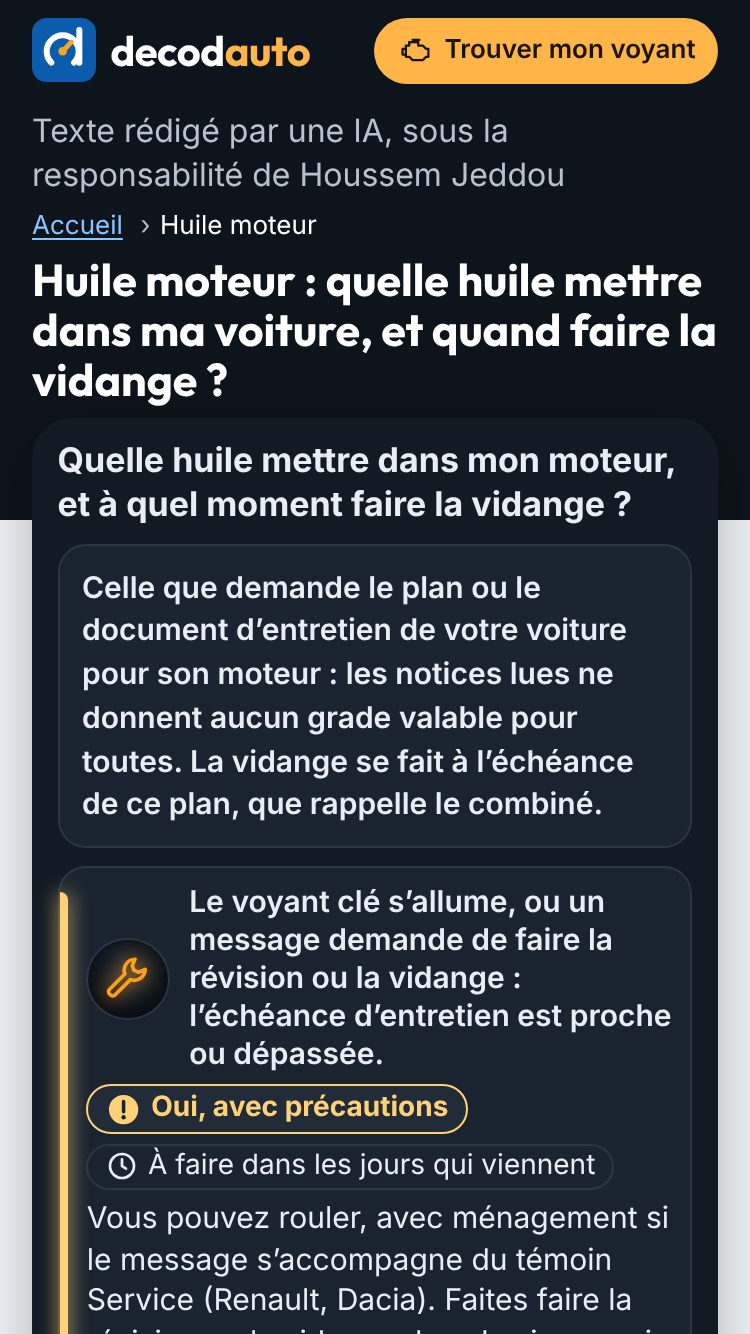
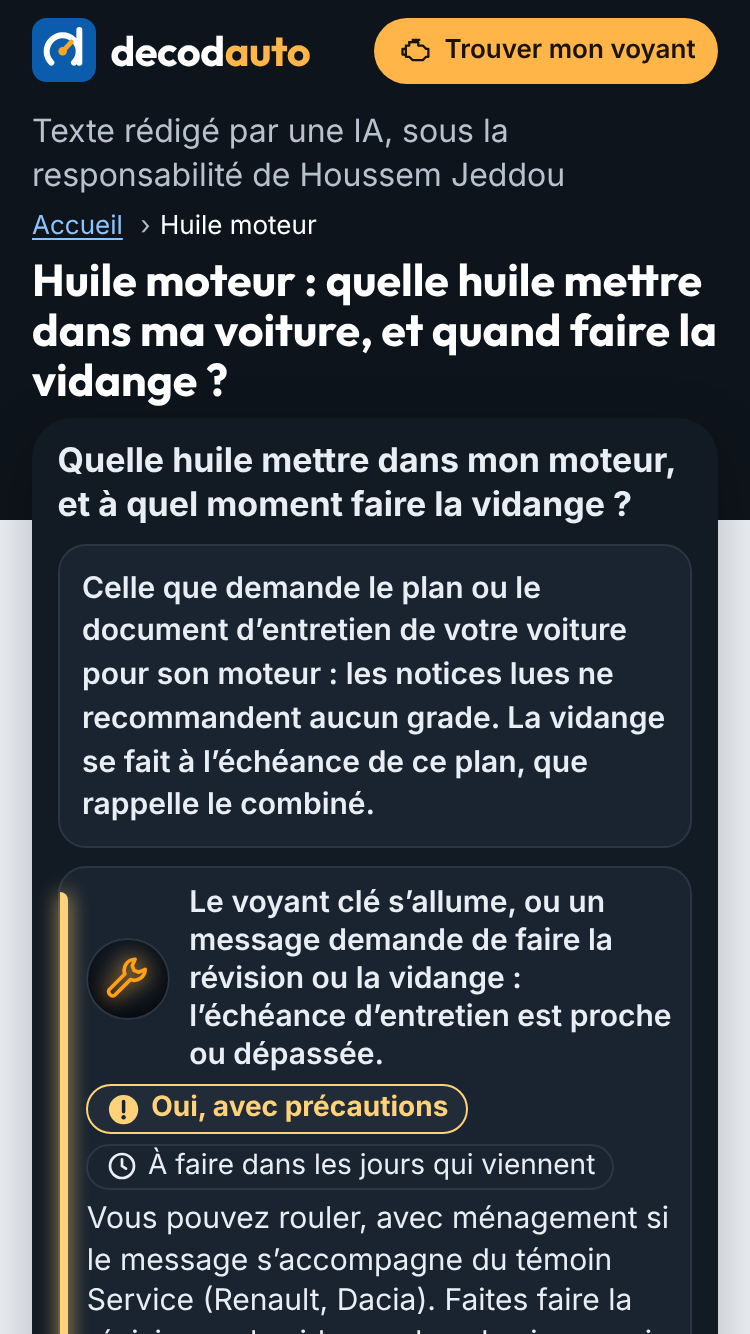
Lot C2 (étape 11) : réponse directe de « huile moteur » (« ne recommandent aucun grade », M1), heure du relevé corrigée (vers 11 h 50), premier écran remesuré à 375 et 320 px (brouillon, jamais validé)
Claude-Session: https://claude.ai/code/session_01D9NChPBVJTio8astCmYhoa

Changed region(s): [[0.092, 0.5225, 0.8893, 0.6147]]

diff --git a/travaux/etape-11/generer-illustrations.py b/travaux/etape-11/generer-illustrations.py
@@ -11,7 +11,7 @@ traits clairs, ambre pour « regardez ici »). Brouillon, jamais validé.
   l'huile du moteur ; à droite, l'étiquette d'un bidon sans marque, où l'on retrouve la norme demandée (en ambre), la
   classe ACEA et le grade. Le dessin n'explique pas le grade (aucune source admise lue) et ne montre aucune marque
   d'huile. Notices : Peugeot 208 p. 166, Citroën C3 p. 113, Renault Clio 5 phase 2 p. 333, Dacia Sandero 3 p. 296,
-  Seat Ibiza p. 293 (relues à l'écran le 17/11/2026, vers 12 h 15).
+  Seat Ibiza p. 293 (relues à l'écran le 17/11/2026, vers 11 h 50).
 
 Contraintes de `illustrationEnLigne` : un seul <svg> racine avec viewBox ; ni script, ni foreignObject, ni image, ni
 use, ni lien, ni attribut on*, ni href, ni url(), ni @import ; textes de 24 unités au moins (12 px à 375 px).

diff --git a/travaux/etape-11/lot-c2/paquet-lot-c2.md b/travaux/etape-11/lot-c2/paquet-lot-c2.md
@@ -17,9 +17,9 @@ Page : `exemples/fluide/huile-moteur.md`, adresse `/huile-moteur/` (plan du site
   grade choisi seul ; la vidange, à son échéance. Erreur d'huile : ce que dit Seat. »
 - **Question de l'encadré** (distincte du H1, M4) : « Quelle huile mettre dans mon moteur, et à quel moment faire la
   vidange ? »
-- **Réponse directe** (règle 2c, demande n° 33) : « Celle que demande le plan ou le document d'entretien de votre
-  voiture pour son moteur : les notices lues ne donnent aucun grade valable pour toutes. La vidange se fait à l'échéance
-  de ce plan, que rappelle le combiné. » Sources : Peugeot 208 p. 166 ; Citroën C3 p. 113 ; Renault Clio 5 phase 2
+- **Réponse directe** (règle 2c, demande n° 33 ; M1 appliqué le 17/11 après la revue, 35 mots) : « Celle que demande le
+  plan ou le document d'entretien de votre voiture pour son moteur : les notices lues ne recommandent aucun grade. La
+  vidange se fait à l'échéance de ce plan, que rappelle le combiné. » Sources : Peugeot 208 p. 166 ; Citroën C3 p. 113 ; Renault Clio 5 phase 2
   p. 333 ; Dacia Sandero 3 p. 296 ; Seat Ibiza p. 293 ; ligne de base `entretien-vidange` (rappel au combiné).
 
 ## 0. Corrections après la revue indépendante (17/11, décisions du pilotage)
@@ -30,7 +30,7 @@ Page : `exemples/fluide/huile-moteur.md`, adresse `/huile-moteur/` (plan du site
 | I2 | Ligne « baisse anormale du niveau » retirée (elle ira sur la page « niveau d'huile » à sa prochaine révision, avec sa validation) ; la section « consommation » tient en une phrase avec un lien vers « niveau d'huile » (paire mère-enfant du plan) ; colonne « Consommation d'huile » retirée du tableau ; `structure-grades.md` renvoie vers cette page pour une autre huile versée, sans répéter la ligne. |
 | I3 | Seat p. 295 et son chiffre au §3 ; vidange et usage repris mot à mot : Renault et Dacia « Suivant véhicule, l'autonomie de vidange s'adapte au style de conduite » ; Seat p. 90 (conditions d'utilisation et style de conduite, 2 ans au plus) ; Seat p. 316 : les conditions difficiles visent « certains travaux », la page dit qu'elle ne nomme pas la vidange. |
 | I4 | §5 : raison de l'illustration au-delà de trois écrans, SEO 66 expliqué, sortie de `npm run liens` dans `recette/`. |
-| M1 à M6 | « ne recommandent aucun grade » ; « une fois » et « sur une Seat Ibiza » avant le tableau d'urgence ; attributions (Peugeot : plan d'entretien ; Citroën : recommandations du constructeur ; Renault et Dacia : représentant pour la capacité de vidange ; déduction « Le grade ne suffit donc pas » retirée) ; question de l'encadré distincte du H1 ; section « Vidange : les mises en garde des notices » (le brief exclut le tutoriel de vidange) ; description qui donne la réponse. |
+| M1 à M6 | « ne recommandent aucun grade », dans la section des grades et, depuis la retouche du 17/11 (le pilotage avait relevé que la réponse directe disait encore « ne donnent aucun grade valable pour toutes »), dans la réponse directe ; « une fois » et « sur une Seat Ibiza » avant le tableau d'urgence ; attributions (Peugeot : plan d'entretien ; Citroën : recommandations du constructeur ; Renault et Dacia : représentant pour la capacité de vidange ; déduction « Le grade ne suffit donc pas » retirée) ; question de l'encadré distincte du H1 ; section « Vidange : les mises en garde des notices » (le brief exclut le tutoriel de vidange) ; description qui donne la réponse. |
 
 ## 1. Les lignes de l'encadré
 
@@ -40,7 +40,7 @@ précautions** · **À faire dans les jours qui viennent**. Ligne `entretien-vid
 sa ligne d'écart de la base : « Plus stricts : Renault et Dacia (révision au plus vite, conduite avec ménagement). Moins
 stricts : Peugeot, Seat et Toyota (rappel d'entretien, sans précaution). »
 
-**L'ATTENTION Seat Ibiza p. 294, puce par puce** (relue à l'écran le 17/11 vers 12 h 15 ; relevé des sources, §11). En
+**L'ATTENTION Seat Ibiza p. 294, puce par puce** (relue à l'écran le 17/11 vers 11 h 50 ; relevé des sources, §11). En
 tête : « Si vous avez rempli une huile moteur différente de celles spécifiées dans les normes indiquées plus haut ou par
 votre service technique de SEAT, tenez compte de ce qui suit : »
 
@@ -92,7 +92,7 @@ elle y entrera à sa prochaine révision, avec sa validation.
 - Aucun montant en euros. Le dépannage sur autoroute s'affiche de lui-même (lignes 3 et 4 à l'arrêt).
 
 ## 3. Extraits et faits : relus à l'écran
-- **Relu à l'écran par Claude** le 17/11/2026 vers 12 h 15 (pdf.js dans Chrome) : Seat Ibiza p. 90, 293, 294, 296, 316 ;
+- **Relu à l'écran par Claude** le 17/11/2026 vers 11 h 50 (pdf.js dans Chrome) : Seat Ibiza p. 90, 293, 294, 296, 316 ;
   Peugeot 208 p. 165 (contact de l'huile usagée avec la peau), 166, 168 ; Citroën C3 p. 112, 113, 114 ; Renault Clio 5
   phase 2 p. 122, 330, 333 ; Dacia Sandero 3 p. 99, 294, 296, 297. Textes mot pour mot : relevé des sources, §11.
 - **Seat Ibiza p. 295** (I3), relue à l'écran le 17/11 vers 10 h 50 et 11 h 10 pour la page « niveau d'huile »
@@ -155,6 +155,13 @@ Preuves : `recette/` (`controle.txt`, `liens-production.txt`, `liens-recette.txt
   **SEO 66** (I4) : seul l'audit « is-crawlable » échoue, parce que la construction de recette est non indexable
   (noindex attendu) ; la construction de production n'a pas ce noindex une fois la page publiée.
 - **Captures** (`captures/`) : 320, 375 et 1366 px, deux polices (captures de secours identiques retirées).
+- **Retouche du 17/11 (réponse directe, M1)** : seuls le premier écran et ses mesures sont refaits, à 375 × 667 et
+  320 × 640, police chargée et police de secours (`captures/premier-ecran.cjs`, `captures/mesures-premier-ecran.json`,
+  `captures/huile-moteur-{320,375}-{chargee,secours}-ecran.png`) : à 375 px, réponse directe finie à 424 px, verdict et
+  urgence de la première situation à 595 px, première situation entière à 723 px (inchangés) ; à 320 px, réponse
+  directe à 467 px, verdict et urgence à 674 px (696 avant), aucun débordement. Les autres captures, les mesures de
+  toute la page et Lighthouse datent d'avant la retouche (seul le texte de la réponse directe change). Contrôle de la
+  construction de recette après la retouche : seule erreur, attendue, R4-VALIDATION-ABSENTE.
 
 ## 6. Points à trancher (avec ma recommandation)
 1. **Ligne 3 nouvelle** (doute sur l'huile versée) au niveau le plus prudent (décision du pilotage).
@@ -165,7 +172,8 @@ Preuves : `recette/` (`controle.txt`, `liens-production.txt`, `liens-recette.txt
 4. **Ligne « baisse anormale » retirée** et reportée sur la page « niveau d'huile ». **Recommandation : valider.**
 
 ## 7. Ligne de validation proposée (page « huile moteur »)
-« Je valide la page « huile moteur » : la question de décision, la réponse directe, les quatre lignes (rappel d'entretien
+« Je valide la page « huile moteur » : la question de décision, la réponse directe (« … les notices lues ne
+recommandent aucun grade… »), les quatre lignes (rappel d'entretien
 de la base à Oui, avec précautions et À faire dans les jours qui viennent ; autre huile versée à Oui, avec précautions et
 À faire tout de suite ; doute sur l'huile versée à Non, arrêtez-vous immédiatement et À faire tout de suite ; autre
 liquide versé à Non, arrêtez-vous immédiatement et À faire tout de suite), le coût, la fiche « L'essentiel », les deux

diff --git a/travaux/etape-11/paquet-exemple-niveau-huile.md b/travaux/etape-11/paquet-exemple-niveau-huile.md
@@ -113,7 +113,7 @@ Les PDF des notices sont refusés par le proxy de ma session. **Relu à l'écran
 | Dacia Sandero 3 | p. 295 (PDF 297) | même phrase de l'entonnoir et du risque d'incendie ; « Il ne faut en aucun cas dépasser le niveau maximum de remplissage B : risque d'endommagement du moteur et du système de dépollution. », juste avant « Si le niveau MAXI est dépassé, ne démarrez pas votre véhicule et faites appel à un Représentant de la marque. » ; appoint moteur thermique froid, contact coupé ; capacité de 1,5 à 2 litres ; « attendez 20 minutes environ » | étapes 9, 11 ; ligne 2 (extrait et risque cité) |
 | Seat Ibiza | p. 295 (PDF 297) | stationner à l'horizontale, moteur au ralenti jusqu'à la température de fonctionnement, contact coupé, environ 2 minutes ; retirer, essuyer avec un chiffon propre, enfoncer jusqu'en butée, retirer, vérifier ; zones A, B, C ; consommation jusqu'à 0,5 l/1 000 km, plus élevée durant les 5 000 premiers km, contrôle de préférence après chaque plein et avant les longs trajets ; extrait de la ligne 2 ; appoint par petites quantités, 0,5 l au plus, environ 2 minutes avant de revérifier | étapes 2, 5 à 7, 10, 11 ; lignes 1 et 2 ; sections « fréquence » et « consommation » |
 | Seat Ibiza | p. 294 | « Par mesure de sécurité, il est recommandé de contrôler le niveau d'huile moteur à l'occasion de chaque passage à la pompe. » suit la ligne « Il clignote en jaune : dysfonctionnement du capteur » | remise dans son contexte (capteur défaillant), section du voyant orange |
-| Toyota Yaris | p. 247 | **non lue** : portail inaccessible ; réessayée le 17/11 vers 12 h 15, PDF hébergé sur s3.amazonaws.com refusé par le navigateur | la page garde « Non lu » (tableau) |
+| Toyota Yaris | p. 247 | **non lue** : portail inaccessible ; réessayée le 17/11 vers 11 h 50, PDF hébergé sur s3.amazonaws.com refusé par le navigateur | la page garde « Non lu » (tableau) |
 
 Autres faits du texte, conformes au texte extrait des PDF à l'étape 5 (pdf.js, sans retouche) : Peugeot p. 20 (jauge
 électrique ; « sol horizontal, moteur à l'arrêt depuis plus de 30 minutes » ; manque d'huile à confirmer à la jauge
@@ -202,7 +202,7 @@ règle de l'accueil, et la recette est repassée : `controle-apres-revue.txt`, `
 - **Paire de liens `niveau-huile` ↔ `moteur-puretech`** (à proposer dans la pull request du lot, à valider avec
   lui) : le dossier PureTech a les deux lignes de la jauge et renvoie au contrôle du niveau ; cette page dit comment le
   faire. Aujourd'hui, le plan ne lie pas les deux pages.
-- **Toyota Yaris p. 247** (contrôle du niveau) : non lue ; réessayée le 17/11 vers 12 h 15 (PDF hébergé sur
+- **Toyota Yaris p. 247** (contrôle du niveau) : non lue ; réessayée le 17/11 vers 11 h 50 (PDF hébergé sur
   s3.amazonaws.com, refusé par le navigateur) ; la page garde « Non lu » ; accès demandé à Houssem.
 
 ## 7. Points à trancher (avec ma recommandation)

diff --git a/exemples/fluide/huile-moteur.md b/exemples/fluide/huile-moteur.md
@@ -1,7 +1,7 @@
 ---
 # Brouillon, jamais validé. Étape 11 (vague C), lot C2 : page mère « huile moteur » (modèle fluide, format 2). Pas
 # d'empreinte tant que Houssem n'a pas validé son encadré (paquet du lot C2).
-# - Sources : relevé à l'écran du 17/11/2026 vers 12 h 15 (pdf.js dans Chrome ; travaux/etape-11/textes/releve-sources.md,
+# - Sources : relevé à l'écran du 17/11/2026 vers 11 h 50 (pdf.js dans Chrome ; travaux/etape-11/textes/releve-sources.md,
 #   §7) : Seat Ibiza p. 90, 293, 294, 296, 316 ; Peugeot 208 p. 165, 166, 168 ; Citroën C3 p. 112, 113, 114 ; Renault
 #   Clio 5 phase 2 p. 122, 330, 333 ; Dacia Sandero 3 p. 99, 294, 296, 297. Recherche de « SAE », « viscosit »,
 #   « ACEA », « vidange » dans chaque PDF entier : aucun grade ni viscosité chez Peugeot, Citroën, Renault, Dacia ;
@@ -18,7 +18,7 @@ h1: "Huile moteur : quelle huile mettre dans ma voiture, et quand faire la vidan
 description: "L'huile à mettre est celle du plan d'entretien de votre voiture, pas un grade choisi seul ; la vidange, à son échéance. Erreur d'huile : ce que dit Seat."
 libelle_court: Huile moteur
 question_decision: "Quelle huile mettre dans mon moteur, et à quel moment faire la vidange ?"
-reponse_directe: "Celle que demande le plan ou le document d'entretien de votre voiture pour son moteur : les notices lues ne donnent aucun grade valable pour toutes. La vidange se fait à l'échéance de ce plan, que rappelle le combiné."
+reponse_directe: "Celle que demande le plan ou le document d'entretien de votre voiture pour son moteur : les notices lues ne recommandent aucun grade. La vidange se fait à l'échéance de ce plan, que rappelle le combiné."
 situations:
   - voyant: entretien-vidange
   - situation: "Vous avez versé une huile moteur différente de celle que demande la notice ou le plan d'entretien"

diff --git a/travaux/etape-11/textes/releve-sources.md b/travaux/etape-11/textes/releve-sources.md
@@ -231,9 +231,9 @@ défaillance critique (la fiche F2878 ne le dit pas : la page ne l'affirmera pas
 3. **Une seule notice** (Seat Leon pour le liquide de frein ; Seat Ibiza pour le vase vide ; Peugeot et Citroën, un seul
    groupe, pour la jauge) : admis pour une ligne saisie (charte §2.1), la page le dit ; à relire à l'écran d'abord.
 
-## 11. Relevé à l'écran du 17/11/2026 vers 12 h 15 (lot C2 : huiles)
+## 11. Relevé à l'écran du 17/11/2026 vers 11 h 50 (lot C2 : huiles)
 
-**Relu à l'écran par Claude** (pdf.js dans Chrome, 17/11/2026 vers 12 h 15) : page imprimée, page du PDF entre
+**Relu à l'écran par Claude** (pdf.js dans Chrome, 17/11/2026 vers 11 h 50) : page imprimée, page du PDF entre
 parenthèses. Recherche dans chaque PDF entier de « SAE », « viscosit », « ACEA », « vidange » : aucune viscosité ni grade
 SAE chez Peugeot, Citroën, Renault, Dacia ; chez Seat, seulement « ACEA C3 » (p. 294). **Aucune des cinq notices
 n'explique un grade.** Peugeot PDF 147 : page publicitaire d'une marque d'huile (« 0W-20 ») : ni consigne ni source

diff --git a/travaux/etape-11/lot-c2/structure-grades.md b/travaux/etape-11/lot-c2/structure-grades.md
@@ -5,7 +5,7 @@
 > pourrait expliquer un grade. Aucune page de grade n'est écrite dans `exemples/` : un fichier incomplet ferait échouer
 > la construction.
 
-## Ce que les sources permettent aujourd'hui (relevé à l'écran du 17/11 vers 12 h 15, relevé des sources §11)
+## Ce que les sources permettent aujourd'hui (relevé à l'écran du 17/11 vers 11 h 50, relevé des sources §11)
 - Aucune des cinq notices lues (Peugeot 208, Citroën C3, Renault Clio 5, Dacia Sandero 3, Seat Ibiza) n'explique un
   grade ni n'en recommande un ; Peugeot, Citroën, Renault et Dacia n'en citent aucun.
 - Seat Ibiza cite « ACEA C3 », des normes VW (essence : 504 00, 502 00, 508 00 ; diesel : 507 00, 505 01) et API (SN,
